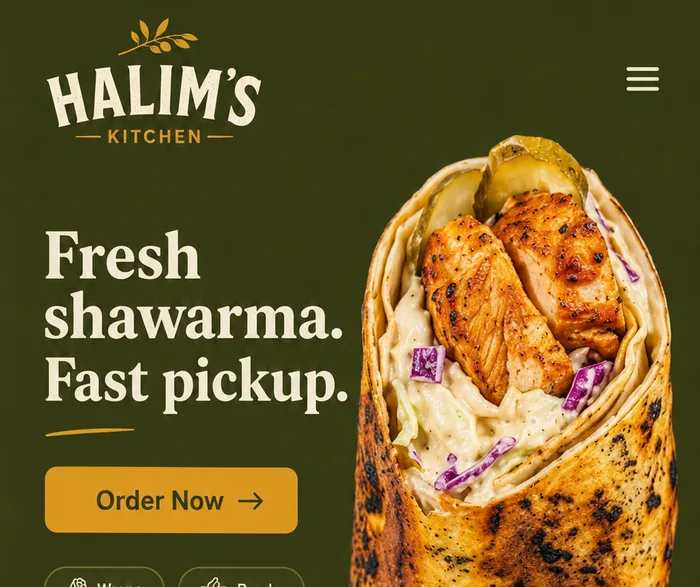
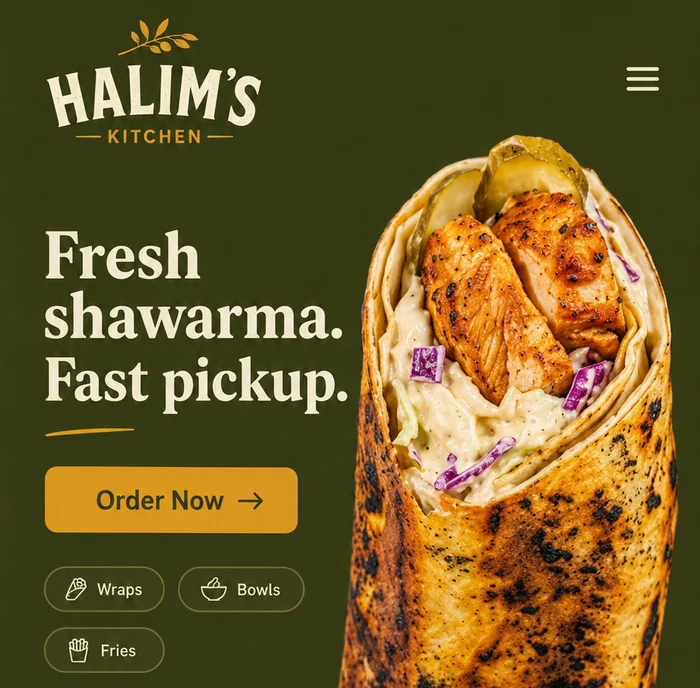
Preview round 2: new Tile8, tighter hero, Halim1 recrop, wider lower half
- Grid position 8 swapped to the regenerated tile (no face). Hero keeps the
  original image. Drive filename had a space; imported as Tile8-new.png.
- Hero recropped tight to forearms, peel and oven mouth, 1074x510 from the
  original Tile8. Was reading as dark wall and the cook's back.
- Alt text rewritten on both: the hero has no cook in frame and the new tile
  is a pan coming OUT of the oven, not a pizza going in.
- Halim1 crop moved 789 -> 925. The old line cut through the Wraps/Bowls
  pills (measured at y 782-800). All three chips now fully included, cream
  section still excluded.
- Bellori's card removed. The brief says no cards, borders or shadows on
  gallery items, and the panel was also holding the grid 44px narrower than
  every other gallery image (1028 vs 1072).
- Lower-section body type raised to match the gallery: services 17 -> 19,
  fit list 18 -> 19, contact note 17 -> 18.
- Contact block put on the raised surface with an amber hairline. It is the
  only CTA on the site and had stopped being distinct on a dark ground.
  Headline cap widened 20ch -> 28ch (was 520px against a 1072px column).

diff --git a/site/index.html b/site/index.html
@@ -32,7 +32,7 @@
 
 <!-- HERO -->
 <section class="hero">
-  <img class="hero-img" src="/images/hero-oven.webp" alt="Cook sliding a pizza into a wood oven" width="1254" height="1254" fetchpriority="high" />
+  <img class="hero-img" src="/images/hero-oven.webp" alt="Forearms guiding a pizza on a wooden peel toward the glowing mouth of a wood oven" width="1074" height="510" fetchpriority="high" />
   <div class="hero-scrim"></div>
   <div class="hero-inner">
     <h1 class="hero-headline">Sharp visual work<br />for restaurants<span class="dot">.</span></h1>
@@ -67,7 +67,7 @@
     </div>
     <div class="wrap piece-media">
       <div class="screens">
-        <img src="/images/Halim1.webp" alt="Halim's Kitchen mobile homepage: Fresh shawarma, fast pickup" width="700" height="587" loading="lazy" decoding="async" />
+        <img src="/images/Halim1.webp" alt="Halim's Kitchen mobile homepage: Fresh shawarma, fast pickup" width="700" height="688" loading="lazy" decoding="async" />
         <img src="/images/Halim2.webp" alt="Halim's Kitchen mobile menu with wraps, bowls and fries" width="700" height="1244" loading="lazy" decoding="async" />
         <img src="/images/Halim3.webp" alt="Halim's Kitchen mobile ordering screen" width="700" height="1244" loading="lazy" decoding="async" />
       </div>
@@ -104,7 +104,7 @@
           <img src="/images/Tile5.webp" alt="Hands laying pepperoni onto raw dough" width="700" height="700" loading="lazy" decoding="async" />
           <img src="/images/Tile6.webp" alt="Finished pizza in an open takeout box" width="700" height="700" loading="lazy" decoding="async" />
           <img src="/images/tile7.webp" alt="Offer post reading SQUARE DEAL, large pepperoni plus two sides, twenty four dollars" width="700" height="700" loading="lazy" decoding="async" />
-          <img src="/images/Tile8.webp" alt="Cook sliding a pizza into the oven" width="700" height="700" loading="lazy" decoding="async" />
+          <img src="/images/Tile8.webp" alt="A hand pulling a steel pan of finished pizza out of the oven" width="700" height="700" loading="lazy" decoding="async" />
           <img src="/images/Tile9.webp" alt="Bellori's storefront lit at dusk" width="700" height="700" loading="lazy" decoding="async" />
         </div>
       </div>
@@ -175,10 +175,12 @@
 <!-- CONTACT -->
 <section class="block contact" id="contact">
   <div class="wrap">
+   <div class="contact-panel">
     <p class="eyebrow">Contact</p>
     <h2 class="contact-headline">Send a photo of the menu or post that bugs you most. We&rsquo;ll send back what it could look like, by tomorrow.</h2>
     <a href="mailto:info@getfrontofhouse.com" class="contact-email">info@getfrontofhouse.com</a>
     <p class="contact-note">No call required. Reply to the email when you see something you&rsquo;d actually use.</p>
+   </div>
   </div>
 </section>
 

diff --git a/site/styles.css b/site/styles.css
@@ -127,7 +127,7 @@ img { display: block; max-width: 100%; height: auto; }
 .screens img { width: 100%; }
 
 /* instagram-style header, built in markup */
-.ig { background: var(--raised); padding: 22px; }
+.ig { /* no card: the brief says no cards, borders or shadows on gallery items */ }
 .ig-head { display: flex; align-items: center; gap: 18px; margin-bottom: 20px; }
 .ig-avatar { width: 74px; height: 74px; border-radius: 50%; object-fit: cover; flex: 0 0 auto; }
 .ig-handle {
@@ -148,12 +148,12 @@ img { display: block; max-width: 100%; height: auto; }
 
 /* ---------- offers ---------- */
 .offers { display: grid; grid-template-columns: repeat(2, 1fr); gap: 1px; margin-top: 44px; background: var(--line); }
-.offer { background: var(--raised); padding: 34px 30px; }
+.offer { background: var(--raised); padding: 38px 34px; }
 .offer h3 {
   color: var(--bone); font-size: 21px; margin-bottom: 10px;
   font-variation-settings: 'wdth' 92, 'wght' 700; letter-spacing: -0.01em;
 }
-.offer p { color: var(--bone-dim); font-size: 17px; line-height: 1.55; }
+.offer p { color: var(--bone-dim); font-size: 19px; line-height: 1.55; }
 
 /* ---------- fit ---------- */
 .fit { display: grid; grid-template-columns: repeat(2, 1fr); gap: 56px; margin-top: 44px; }
@@ -166,15 +166,20 @@ img { display: block; max-width: 100%; height: auto; }
 .fit-no  { color: var(--bone-faint); }
 .fit-col ul { list-style: none; }
 .fit-col li {
-  color: var(--bone-dim); font-size: 18px; line-height: 1.5;
-  padding: 12px 0; border-bottom: 1px solid var(--line);
+  color: var(--bone-dim); font-size: 19px; line-height: 1.5;
+  padding: 14px 0; border-bottom: 1px solid var(--line);
 }
 
 /* ---------- contact ---------- */
 .contact { padding-bottom: 120px; }
+.contact-panel {
+  background: var(--raised);
+  border: 1px solid rgba(224, 163, 46, 0.55);
+  padding: 64px 56px;
+}
 .contact-headline {
   font-size: clamp(30px, 5vw, 52px); color: var(--bone);
-  max-width: 20ch; margin-bottom: 34px;
+  max-width: 28ch; margin-bottom: 34px;
 }
 .contact-email {
   display: inline-block; color: var(--amber); text-decoration: none;
@@ -184,7 +189,7 @@ img { display: block; max-width: 100%; height: auto; }
   transition: border-color 0.16s ease;
 }
 .contact-email:hover { border-bottom-color: var(--amber); }
-.contact-note { margin-top: 22px; color: var(--bone-faint); font-size: 17px; max-width: 46ch; }
+.contact-note { margin-top: 22px; color: var(--bone-faint); font-size: 18px; max-width: 52ch; }
 
 /* ---------- footer ---------- */
 .site-footer { border-top: 1px solid var(--line); padding: 30px 0 44px; }
@@ -224,4 +229,5 @@ img { display: block; max-width: 100%; height: auto; }
   .ig-grid { gap: 2px; }
   .piece-caption { font-size: 18px; }
   .contact-headline { max-width: none; }
+  .contact-panel { padding: 36px 22px; }
 }
